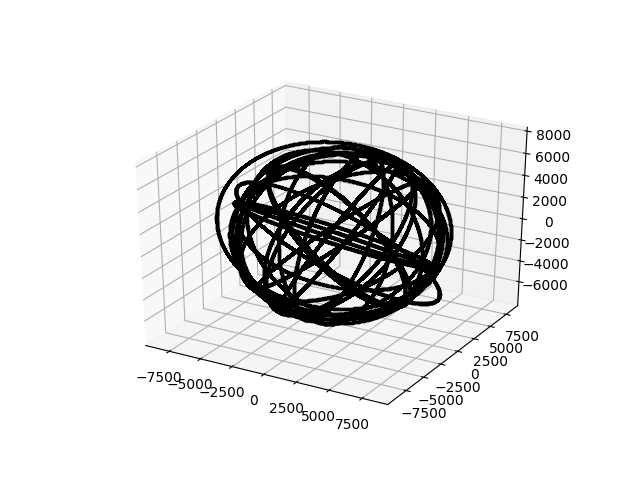
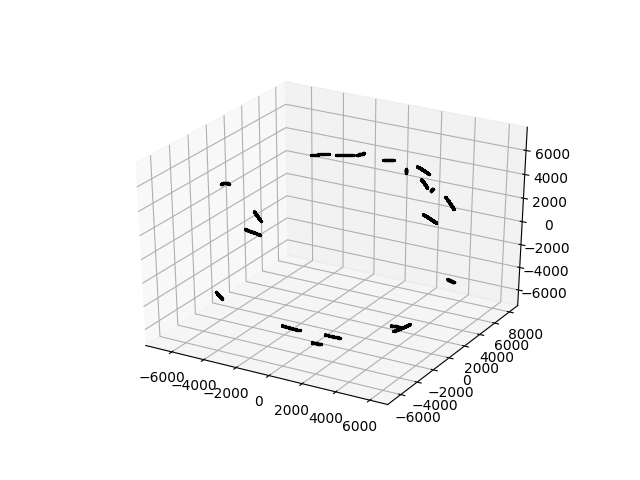
added references.txt

Changed region(s): [[0.2188, 0.1875, 0.9062, 0.9062]]

diff --git a/orbit_simulation.py b/orbit_simulation.py
@@ -20,7 +20,7 @@ def create_sat_list(sat_pos_objs):
 # SIMULATION
 satellites = create_sat_list(sat_pos_objs)
 
-simulation_time = 14000
+simulation_time = 140
 
 fig = plt.figure()
 ax = fig.add_subplot(111, projection='3d')
